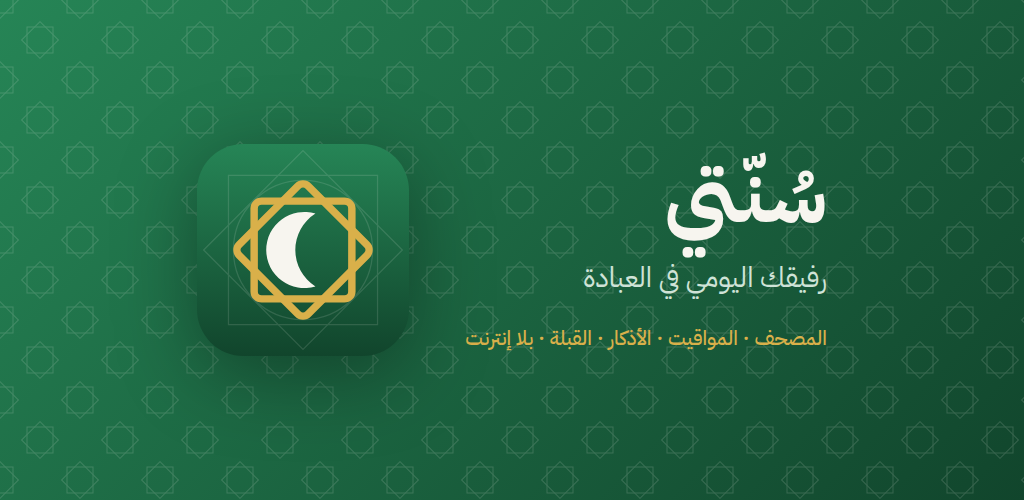
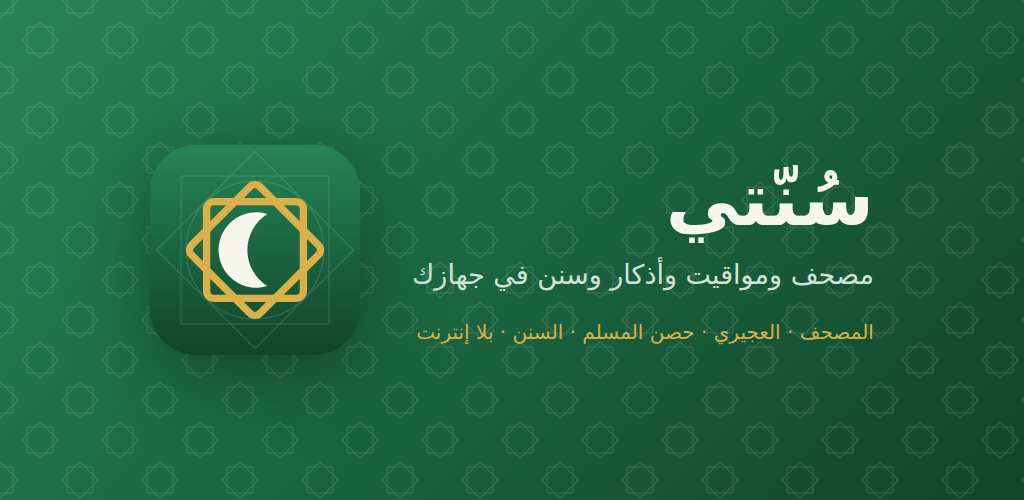
v7.8.2 صفحة المتجر تصف التطبيق كما هو
نص صفحة المتجر كتب عند الاصدار الخامس ولم يعرف ما جاء بعده: كان يقول رفيق يومي
وستة عشر قسما من الاذكار، ولا يذكر العجيري ولا المصحف بالصفحات ولا الكتاب كاملا
ولا السنن على المنح العلية ولا صوت القارئ ولا الصورة ولا السدو. اعيدت كتابته
كله على ما في التطبيق اليوم وعلى قواعد دليل الكتابة، والوصف القصير خمسة وسبعون
حرفا والمتجر يقبل ثمانين، وكان تسعة وتسعين فيُرد.

وصورة العرض كانت تحمل رفيقك اليومي في العبادة، فرسمت من جديد بالسطر الجديد
وبما في التطبيق، ورسمها صار في المستودع في tools/store. واختبار يقرا الصفحة ويتحقق
من الطول ومن ذكر ما استجد.

diff --git a/test/interface.test.js b/test/interface.test.js
@@ -3896,3 +3896,20 @@ test('the real voice is the default, in front, and the phone voice row appears o
   /* the play button sits on the reminder row itself */
   assert.ok(doc.querySelector('#settings-voice-try').closest('.setting').querySelector('#settings-voice'), 'the button is beside the choice it plays');
 });
+
+/* ---------------- the store listing ---------------- */
+
+test('the store listing describes the app as it is, within the store limits', () => {
+  const listing = fs.readFileSync(path.join(__dirname, '..', 'play', 'README.md'), 'utf8');
+  const short = /### الوصف القصير\n```\n([^\n]+)\n```/.exec(listing);
+  assert.ok(short, 'a short description');
+  assert.ok(short[1].length <= 80, 'the store allows eighty characters, found ' + short[1].length);
+  const full = /### الوصف الكامل\n```\n([\s\S]*?)\n```/.exec(listing)[1];
+  assert.ok(full.length <= 4000, 'the store allows four thousand, found ' + full.length);
+  ['العجيري', 'صفحة صفحة', 'مئة واثنان وثلاثون باباً', 'المنح العلية', 'الصلاة الإبراهيمية', 'السدو'].forEach(function (k) {
+    assert.ok(full.indexOf(k) !== -1, 'the listing should mention ' + k);
+  });
+  assert.ok(full.indexOf('رفيق') === -1, 'no companion');
+  assert.ok(full.indexOf('ستة عشر قسماً') === -1, 'the sixteen sections are the whole book now');
+  assert.ok(fs.existsSync(path.join(__dirname, '..', 'tools', 'store', 'feature-graphic.mjs')), 'the graphic can be drawn again');
+});

diff --git a/docs/js/app.js b/docs/js/app.js
@@ -7,7 +7,7 @@
 (function (window, document) {
   'use strict';
 
-  var VERSION = '7.8.1';
+  var VERSION = '7.8.2';
   var DEFAULT_PLACE = { n: 'الكويت', lat: 29.3759, lng: 47.9774, tz: 3, z: 'Asia/Kuwait', method: 'Kuwait' };
   var ARC_LENGTH = 314.16;
   var TOTAL_PAGES = 604;

diff --git a/docs/sw.js b/docs/sw.js
@@ -8,7 +8,7 @@
    The mushaf and the icons never change under the same name, so those stay
    cache first and cost nothing after the first visit. */
 
-var VERSION = 'sunnati-v7.8.1';
+var VERSION = 'sunnati-v7.8.2';
 
 var SHELL = [
   './',

diff --git a/play/README.md b/play/README.md
@@ -10,7 +10,7 @@
 | --- | --- |
 | `play/twa-manifest.json` | إعدادات bubblewrap كاملة، الاسم واللون والاختصارات |
 | `docs/.well-known/assetlinks.json` | ربط الحزمة بالنطاق، ينقصه بصمتا المفتاح |
-| `docs/manifest.webmanifest` | إحدى عشرة أيقونة وخمس لقطات وثلاثة اختصارات |
+| `docs/manifest.webmanifest` | إحدى عشرة أيقونة وثماني لقطات وثلاثة اختصارات |
 | `docs/icons/play-1024.png` | أيقونة المتجر، ألف وأربع وعشرون بلا شفافية |
 | `docs/screens/*.png` | ثماني لقطات من التطبيق نفسه بمقاس 1080 في 1920، وهو المقاس الذي يقبله المتجر، إذ يرفض ما زادت نسبة طوله إلى عرضه على اثنين |
 | `docs/splash/*.png` | أربع وعشرون شاشة بدء لأجهزة أبل |
@@ -49,43 +49,52 @@ keytool -list -v -keystore android.keystore -alias sunnati | grep SHA256
 
 ### الوصف القصير
 ```
-المصحف كاملاً ومواقيت الصلاة والأذكار والقبلة، يعمل بلا إنترنت وبلا إعلانات.
+المصحف ومواقيت العجيري وحصن المسلم والسنن اليومية، بلا إنترنت وبلا إعلانات.
 ```
 
 ### الوصف الكامل
 ```
-سُنّتي رفيق يومي في العبادة، يحمل المصحف كاملاً ومواقيت الصلاة والأذكار وتتبع
-السنن، ويعمل كله في جهازك بلا إنترنت وبلا حساب وبلا إعلانات وبلا تتبع.
+سُنّتي يعمل كله في جهازك: المصحف كاملاً، ومواقيت الصلاة، وحصن المسلم بأبوابه
+كلها، والسنن اليومية على كتاب معتمد، بلا حساب وبلا إعلانات وبلا تتبع، ولا يحتاج
+الإنترنت إلا لما تطلبه أنت من تلاوة أو إذاعة أو تفسير.
 
-■ مواقيت الصلاة
-حساب فلكي على الجهاز بخمس عشرة طريقة معتمدة من رابطة العالم الإسلامي وأم القرى
-والهيئة المصرية وكراتشي وديانت وغيرها، مع مذهبي العصر عند الجمهور والحنفية،
-وتصحيح لخطوط العرض العالية التي لا يغيب فيها الشفق. والمواقيت مربوطة بالمنطقة
-الزمنية للمدينة فتتبع تغيّر الساعة، ويوم الجمعة تُسمّى الصلاة باسمها.
+■ المواقيت
+في الكويت يأخذ التطبيق مواقيته من تقويم العجيري يوماً بيوم كما يطبعها التقويم،
+وفي غيرها يحسبها على الجهاز بخمس عشرة طريقة معتمدة، منها أم القرى والهيئة
+المصرية وكراتشي وديانت، مع مذهبي العصر عند الجمهور والحنفية. ساعة على الشاشة
+الرئيسية تعدّ ما بقي على الأذان، وجدول للشهر كله يُنسخ نصاً، وفي رمضان يعدّ إلى
+الإفطار ويُظهر الإمساك.
 
 ■ المصحف
-النص كامل برواية حفص عن عاصم بالرسم العثماني، ستة آلاف ومئتان وست وثلاثون آية
-محفوظة في جهازك. تصفّح بالسور أو بالأجزاء الثلاثين، ومواضع السجدة معلّمة، واضغط
-أي آية لتحفظها أو تشاركها أو تسمعها أو تقرأ تفسيرها. وبحث يفهم الرسم العثماني
-والإملاء المعتاد معاً، فمن كتب الصابرين ومن كتب الصبرين وصل إلى الآيات نفسها.
+النص كامل برواية حفص عن عاصم بالرسم العثماني، ست مئة وأربع صفحات محفوظة في
+جهازك. اقرأه بالسور أو صفحة صفحة كالمطبوع، واقفز إلى صفحة أو جزء أو آية، واضغط
+أي آية لتحفظها أو تسمعها أو تقرأ تفسيرها أو ترسلها صورة بخط المصحف. تلاوة تمشي
+مع النص آية آية بسبعة عشر قارئاً، وتكرار للحفظ، وبحث يفهم الرسم العثماني والإملاء
+المعتاد معاً.
 
 ■ الأذكار
-ستة عشر قسماً من حصن المسلم، لكل ذكر عدّاده الذي يحفظ موضعه في يومك.
+حصن المسلم كاملاً، مئة واثنان وثلاثون باباً ومئتان وستة وستون ذكراً، لكل ذكر
+عدده الذي ورد وحلقة تمتلئ كلما قلته. وبطاقة تعرض أذكار هذا الوقت بحسب الصلاة:
+الصباح بعد الفجر، والمساء بعد العصر، والنوم بعد العشاء. ويُرسل أي ذكر صورة
+تحمل مصدره.
 
-■ تتبع السنن
-ورد يومي وسنن موزّعة على أوقات اليوم، في مجموعات تُطوى وتُفتح، مع شبكة تبيّن آخر
-ثلاثين يوماً وسلسلة أيامك المتصلة.
+■ السنن اليومية
+مئة وأربع سنن في أربع عشرة مجموعة على ترتيب كتاب المنح العلية في بيان السنن
+اليومية، من الاستيقاظ إلى النوم ثم ما لا يتقيد بوقت، وكل مجموعة تسمي صفحتها في
+الكتاب. علّم ما أدّيته ويحفظ لك التطبيق ثلاثين يوماً وسلسلتك.
+
+■ الصلاة على النبي ﷺ
+تذكير كل ساعة أو ساعتين أو ثلاث أو ست، بصوت قارئ يتلو الصلاة الإبراهيمية، وعلى
+الجمعة يذكّر بالإكثار.
 
 ■ أدوات أخرى
-القبلة ببوصلة تدور مع الجهاز، والمسبحة بأهداف محفوظة، وخطة ختمة تفتح المصحف عند
-الصفحة التي بلغتها، والأربعون النووية والأدعية المأثورة والرقية الشرعية، والتقويم
-الهجري بالمناسبات، وإذاعة القرآن بمؤقت إيقاف، وسبعة عشر قارئاً، ونسخة احتياطية
-تصدّر كل ما سجّلته في ملف واحد.
+القبلة ببوصلة تدور مع الجهاز، والمسبحة، والتقويم الهجري بمواسمه وتحويل التاريخ
+هجرياً وميلادياً، والأربعون النووية والأدعية المأثورة والرقية، وإذاعة القرآن،
+ونسخة احتياطية في ملف واحد. ولون تختاره من ثمانية، وزخرفة النجمة الثمانية أو
+السدو الكويتي.
 
 ■ خصوصيتك
-لا يجمع التطبيق عنك شيئاً ولا يرسل عنك شيئاً. كل ما تسجّله يبقى في جهازك، ولا
-يحتاج الإنترنت إلا للتلاوة الصوتية والإذاعة والتفسير حين تطلبها أنت.
-
+لا يجمع التطبيق عنك شيئاً ولا يرسل عنك شيئاً، وكل ما تسجّله يبقى في جهازك.
 التطبيق مفتوح المصدر برخصة MIT، والشيفرة كاملة متاحة للمراجعة.
 ```
 
@@ -119,5 +128,5 @@ keytool -list -v -keystore android.keystore -alias sunnati | grep SHA256
 
 - [ ] بصمة مفتاح الرفع في `assetlinks.json`
 - [ ] بصمة مفتاح توقيع Play بعد أول رفع
-- [ ] صورة العرض في المتجر، ألف وأربع وعشرون في خمس مئة، تُصنع من الشعار والنمط
+- [x] صورة العرض في المتجر، ألف وأربع وعشرون في خمس مئة، في `play/feature-graphic-1024x500.png`، وتُرسم من جديد بـ `tools/store/feature-graphic.mjs`
 - [ ] حساب مطوّر في Play Console
